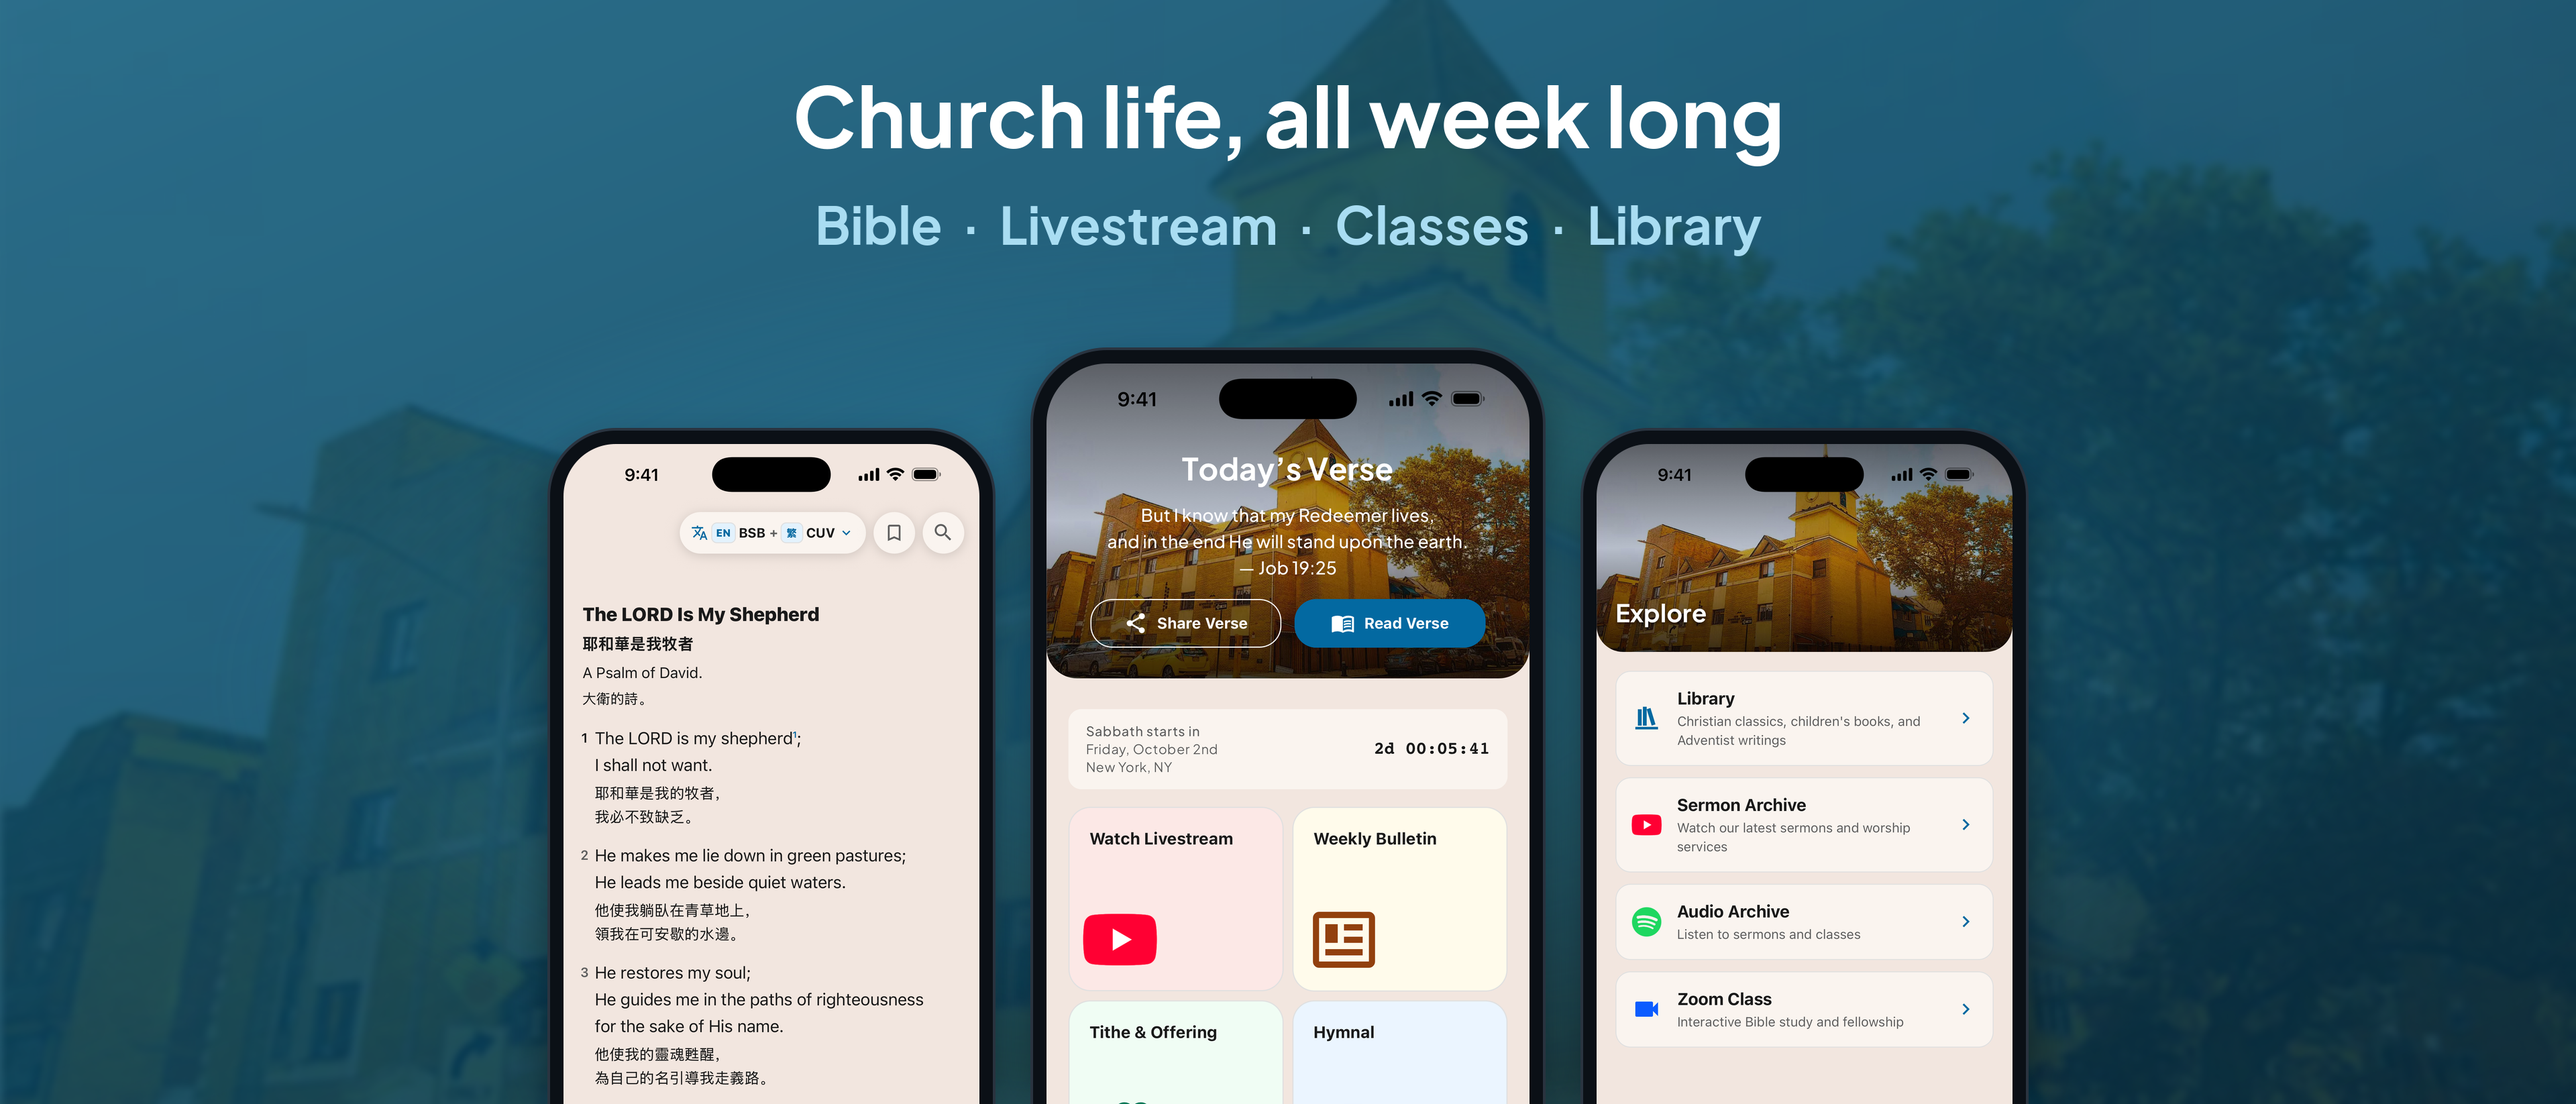
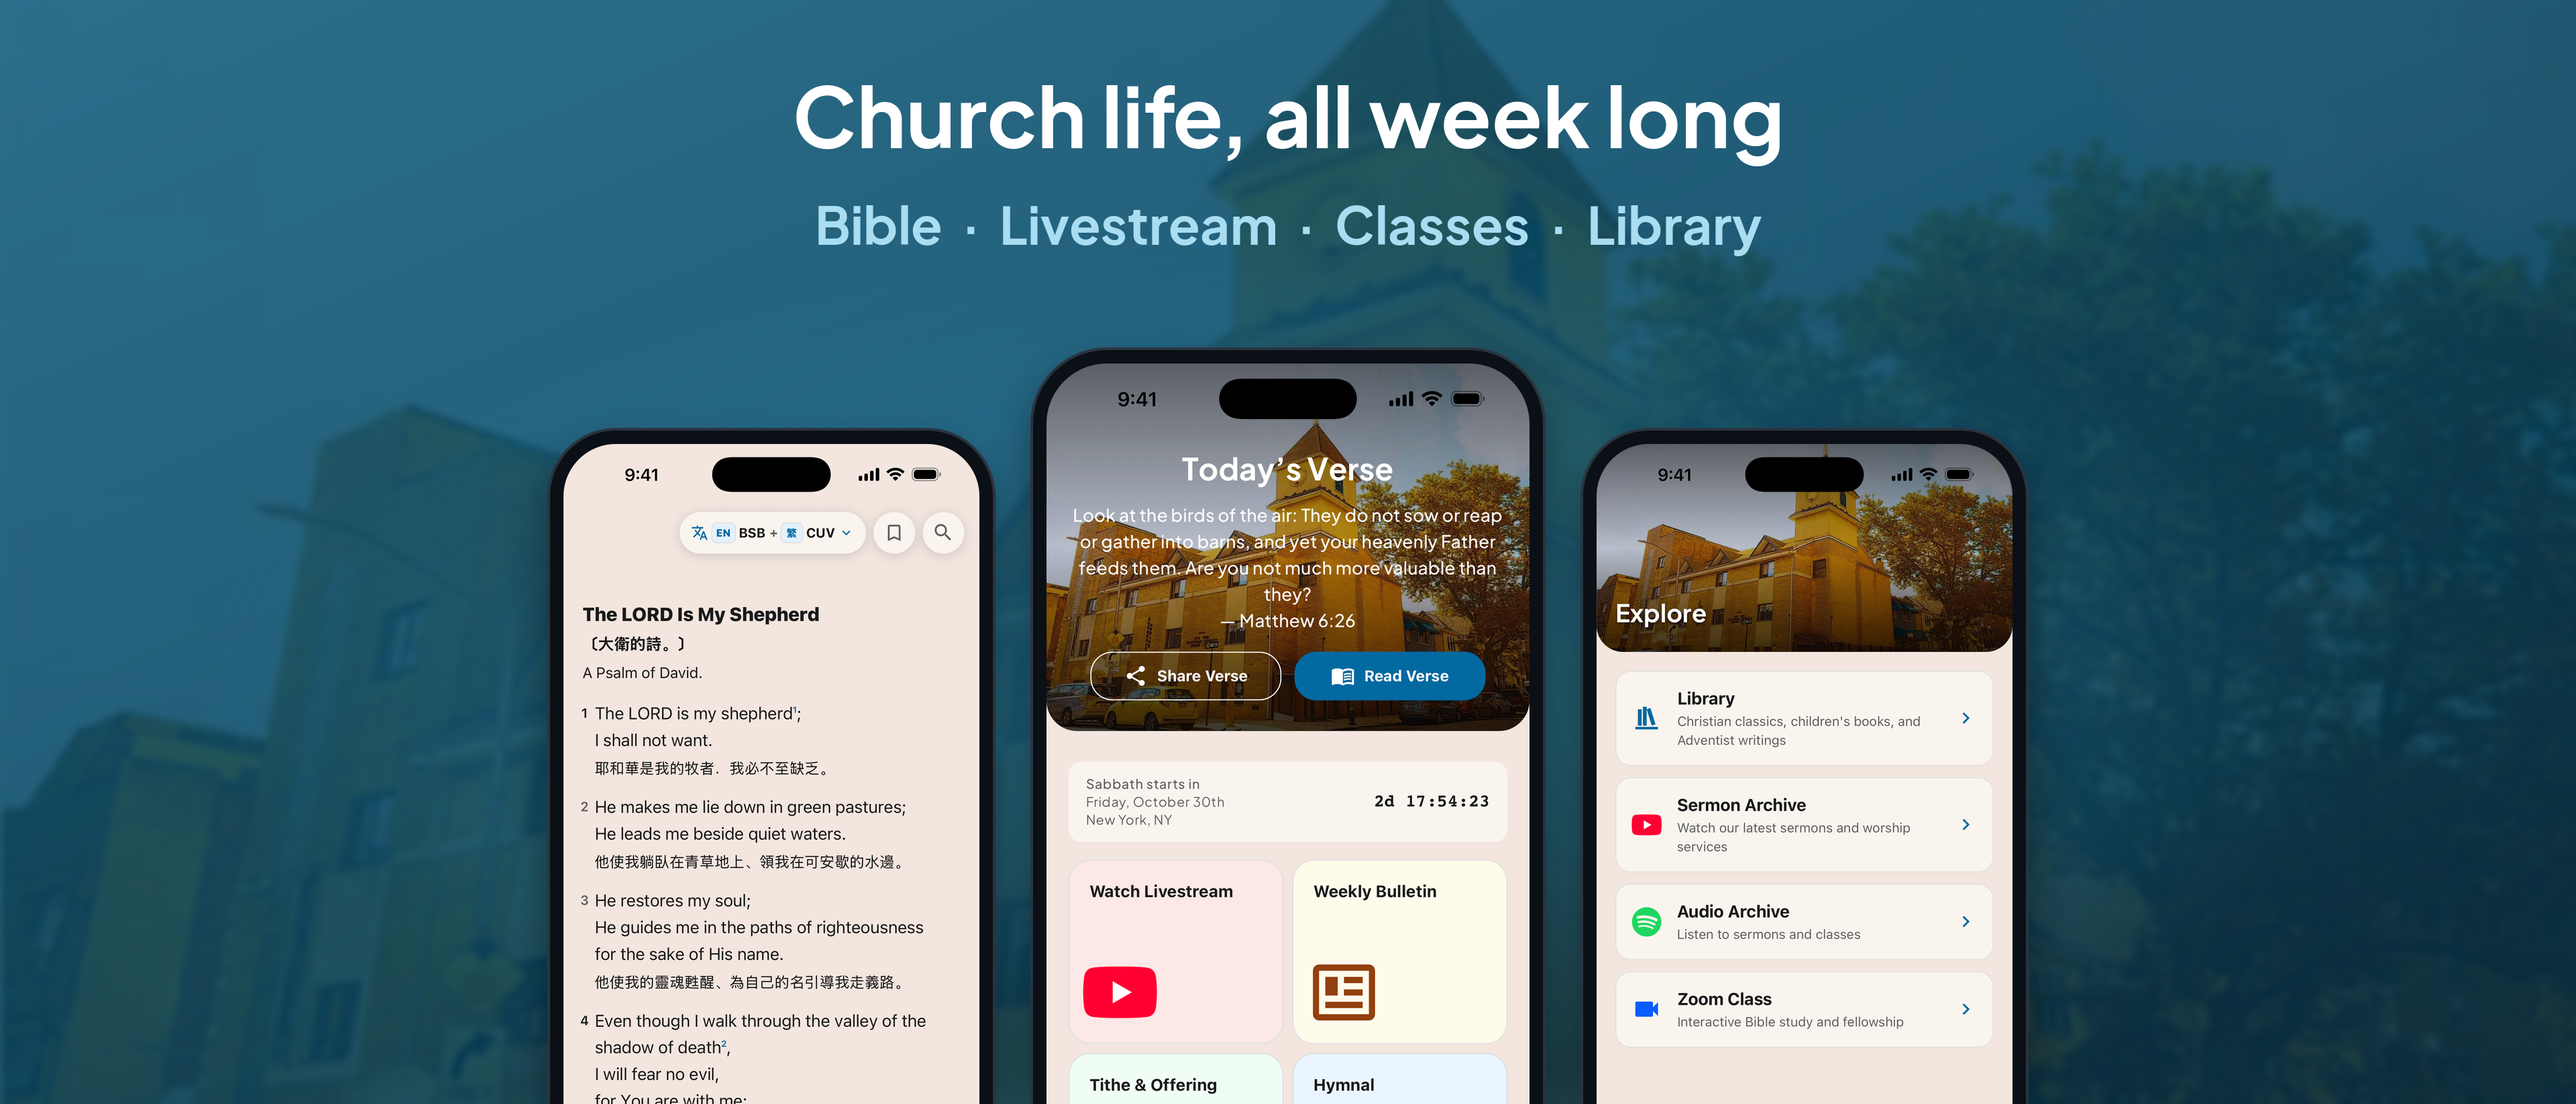
New App Store and Google Play screenshots and headers, with the 1919 text
The store screenshots and App Store headers showed the 1988 Chinese
Union Version the app no longer has. These are from the 1.4.0 key-screen
runs, with the store lists now matching the uploaded sets: six iPhone
screenshots, six Play phone screenshots (the audio settings shot is now
the centred popup), and the four headers rebuilt from them with
scripts/make-app-store-headers.cjs. All stripped of metadata, with no
transparency.

diff --git a/docs/store-assets/README.md b/docs/store-assets/README.md
@@ -8,15 +8,16 @@ are captured, their sizes, and what they may show are in
 
 - `google-play/feature-graphic.png`: the 1024 × 500 feature graphic. It shows the app
   icon, the church's name in English and Traditional Chinese, and two English Bible
-  screenshots in phone frames on the brand blue (`#00405C`): one with pinyin, which is no
-  longer a store screenshot (it's in this folder's git history as `02-bible-pinyin.png`),
-  and `02-bible-audio.png`. An AI assistant laid
+  screenshots in phone frames on the brand blue (`#00405C`): one with pinyin and one with
+  audio playing, both from before 1.4.0 (they're in this folder's git history as
+  `02-bible-pinyin.png` and `02-bible-audio.png`), so their tiny Chinese text is the
+  1988 edition the app no longer has. An AI assistant laid
   it out, so declare it as AI-generated in Play Console; see
   [Store listing assets](../operations/play-console-answers.md#store-listing-assets).
-- `google-play/phone/en-US/`: the six phone screenshots, in upload order: Home, the
-  Bible with audio playing, the audio-language choice with 粵語 (Cantonese) selected,
-  the Bible in the dark theme, Explore, and the Library. The other languages' listings
-  show these too.
+- `google-play/phone/en-US/`: the six phone screenshots, in upload order, at 1080 × 1920:
+  Home, the Bible in English and Chinese, the audio settings with the CUV's audio
+  languages, the Bible in the dark theme, Explore, and the Library. The other languages'
+  listings show these too.
 - `app-store/en-US/`: the six iPhone screenshots, in upload order, at the 6.9-inch size
   (1320 × 2868): Home, the Bible in English and Chinese, the Bible in Chinese and
   English with the Chinese interface, the Bible in the dark theme, Explore, and the
@@ -42,9 +43,12 @@ are captured, their sizes, and what they may show are in
   ever deleted, upload this file again and update the link; see
   [Foreground service](../operations/play-console-answers.md#foreground-service).
 
-The Play app icon is `public/icon-512x512.png`, so it isn't copied here. The App Store
-screenshots here are from the 0.43.0 release PR's **iOS key screens** run on September
-30, 2026, before the audio button showed the audio language.
+The Play app icon is `public/icon-512x512.png`, so it isn't copied here. The screenshots
+and headers here are from the key-screen runs for 1.4.0 on October 28, 2026, the first
+with the 1919 Chinese Union Version: [iOS](https://github.com/CodeSammich/sda-church-app/actions/runs/40628414994)
+and [Android](https://github.com/CodeSammich/sda-church-app/actions/runs/40628417415). The
+Android emulator's status bar shows Wi-Fi with a "!"; that's the test emulator's network,
+not the app.
 
 Each run also saves numbered App Store copies in its screenshots download's
 `screens/app-store/`, from the `appStore` lists in `test/screens/screens.json`:

diff --git a/docs/operations/store-listing.md b/docs/operations/store-listing.md
@@ -395,7 +395,9 @@ transparency both stores reject. Replace them there whenever the stores get new 
 
 - **Google Play:** 2 to 8 phone screenshots. The long side can be at most twice the short
   side, so capture at 1080 × 1920: on an emulator, run `adb shell wm size 1080x1920`, and
-  turn on Android's demo mode for a clean status bar. Play also needs a 1024 × 500 feature
+  turn on Android's demo mode for a clean status bar. The current set comes from the
+  **Android key screens** run's Google Play batch (`screens/google-play/en-US/`), which
+  does both. Play also needs a 1024 × 500 feature
   graphic, described in [Store listing assets](play-console-answers.md#store-listing-assets),
   and the 512 × 512 icon (`public/icon-512x512.png`).
 - **App Store:** iPhone 6.9-inch screenshots only. The app is iPhone-only
